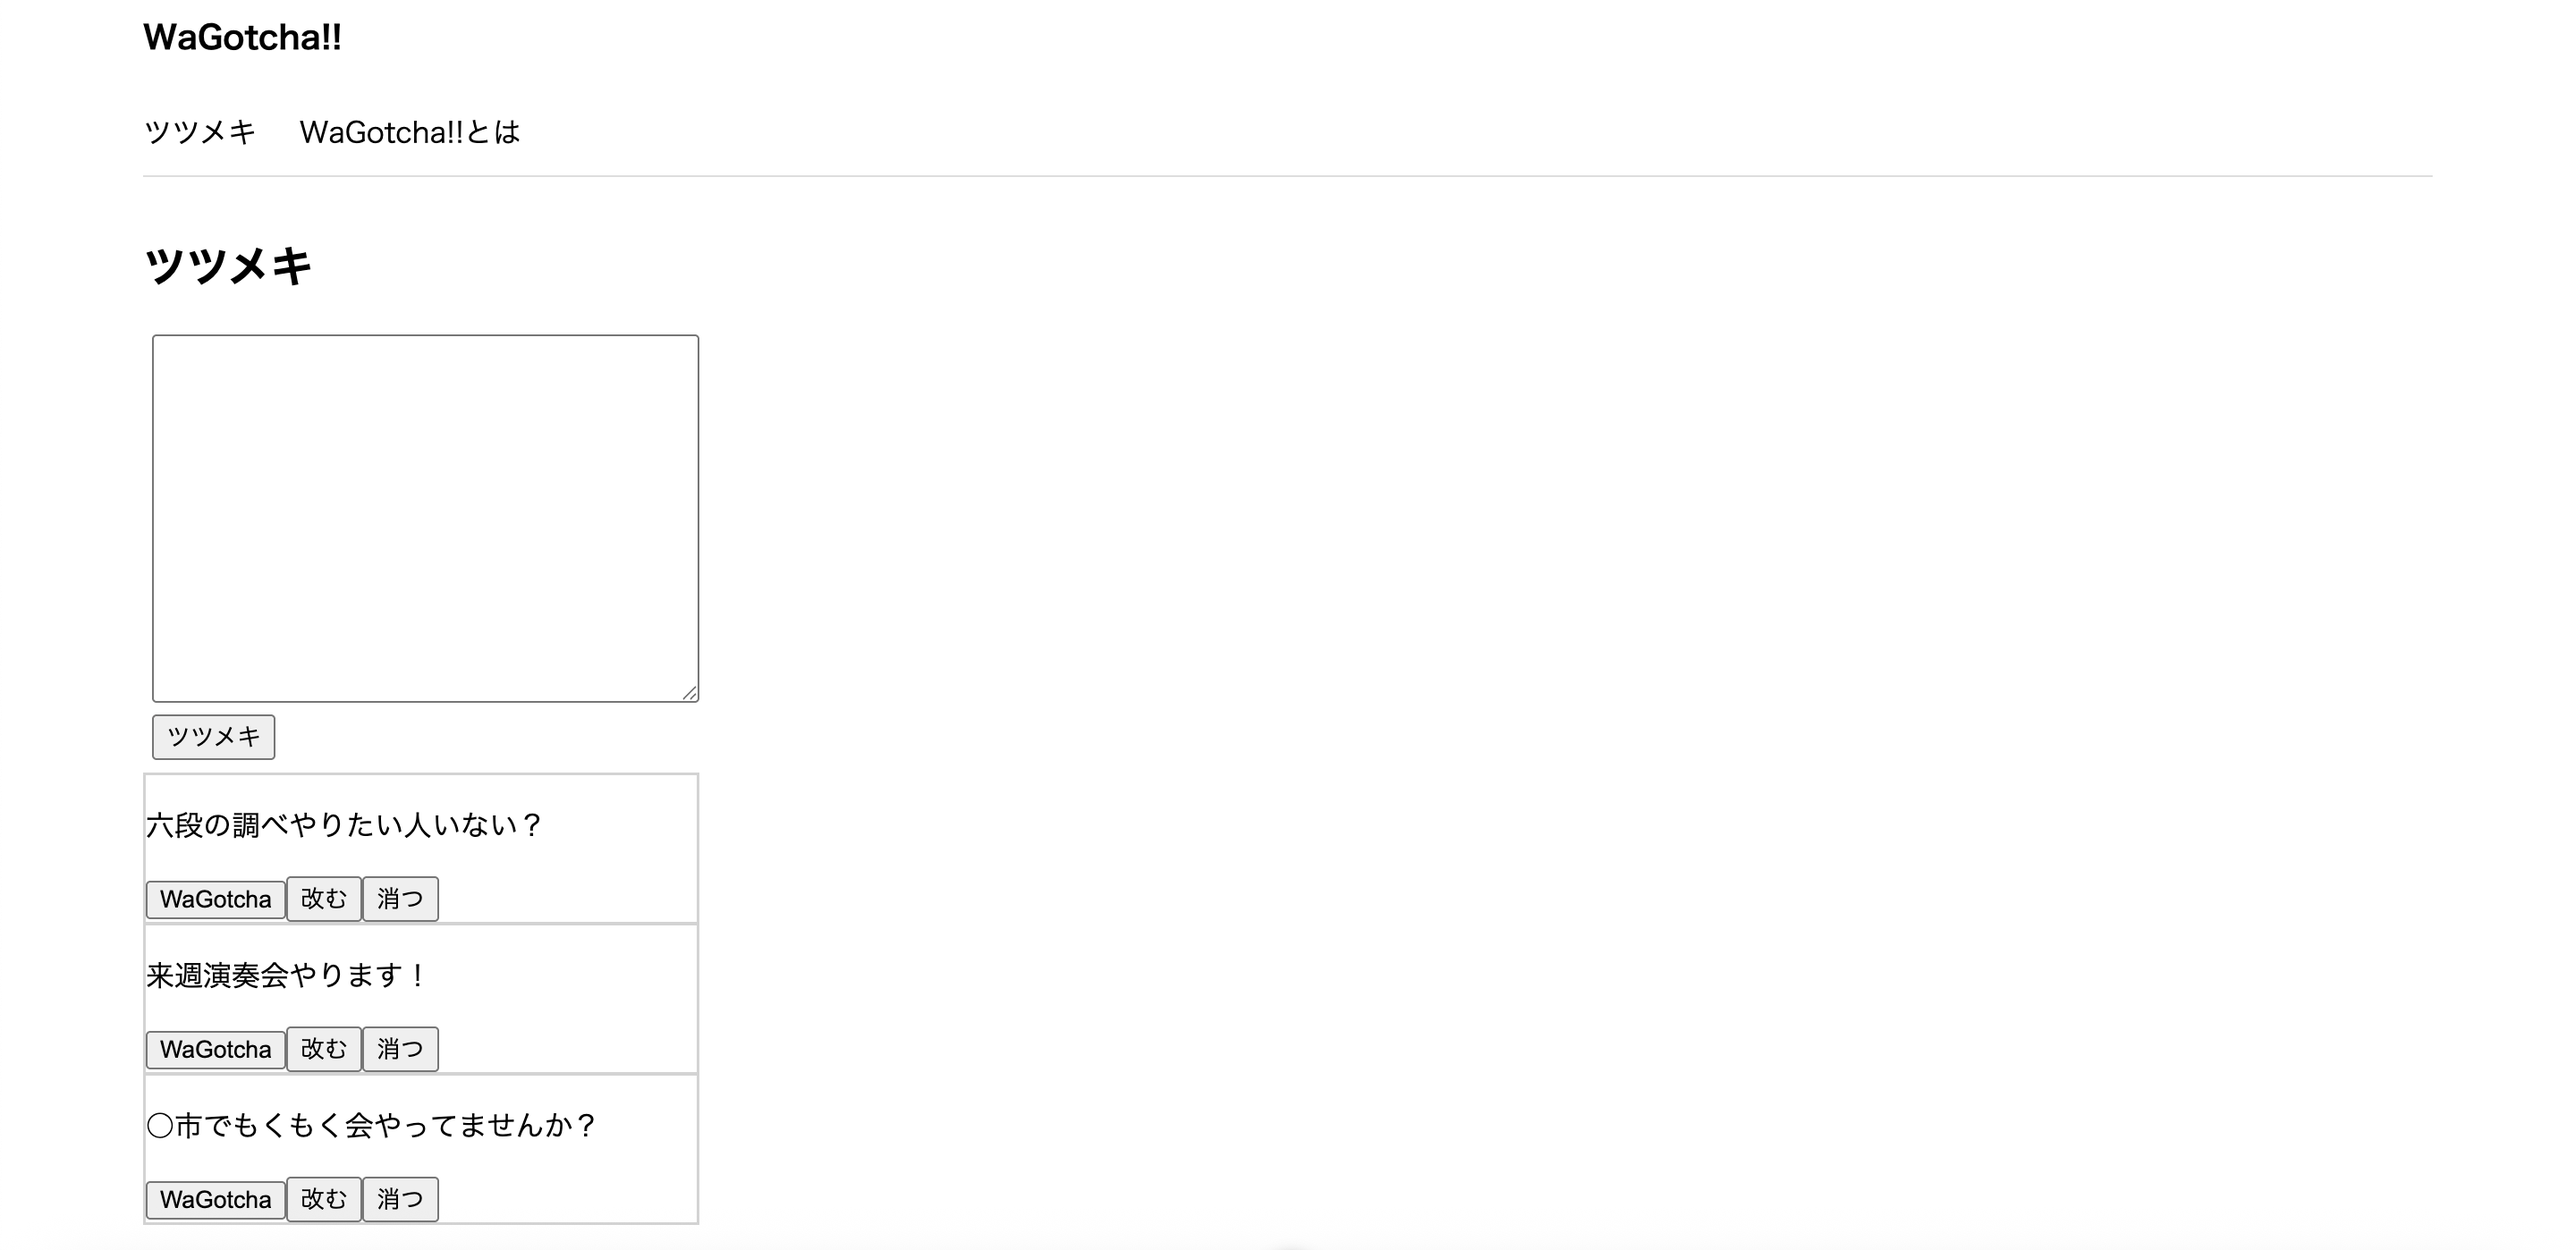
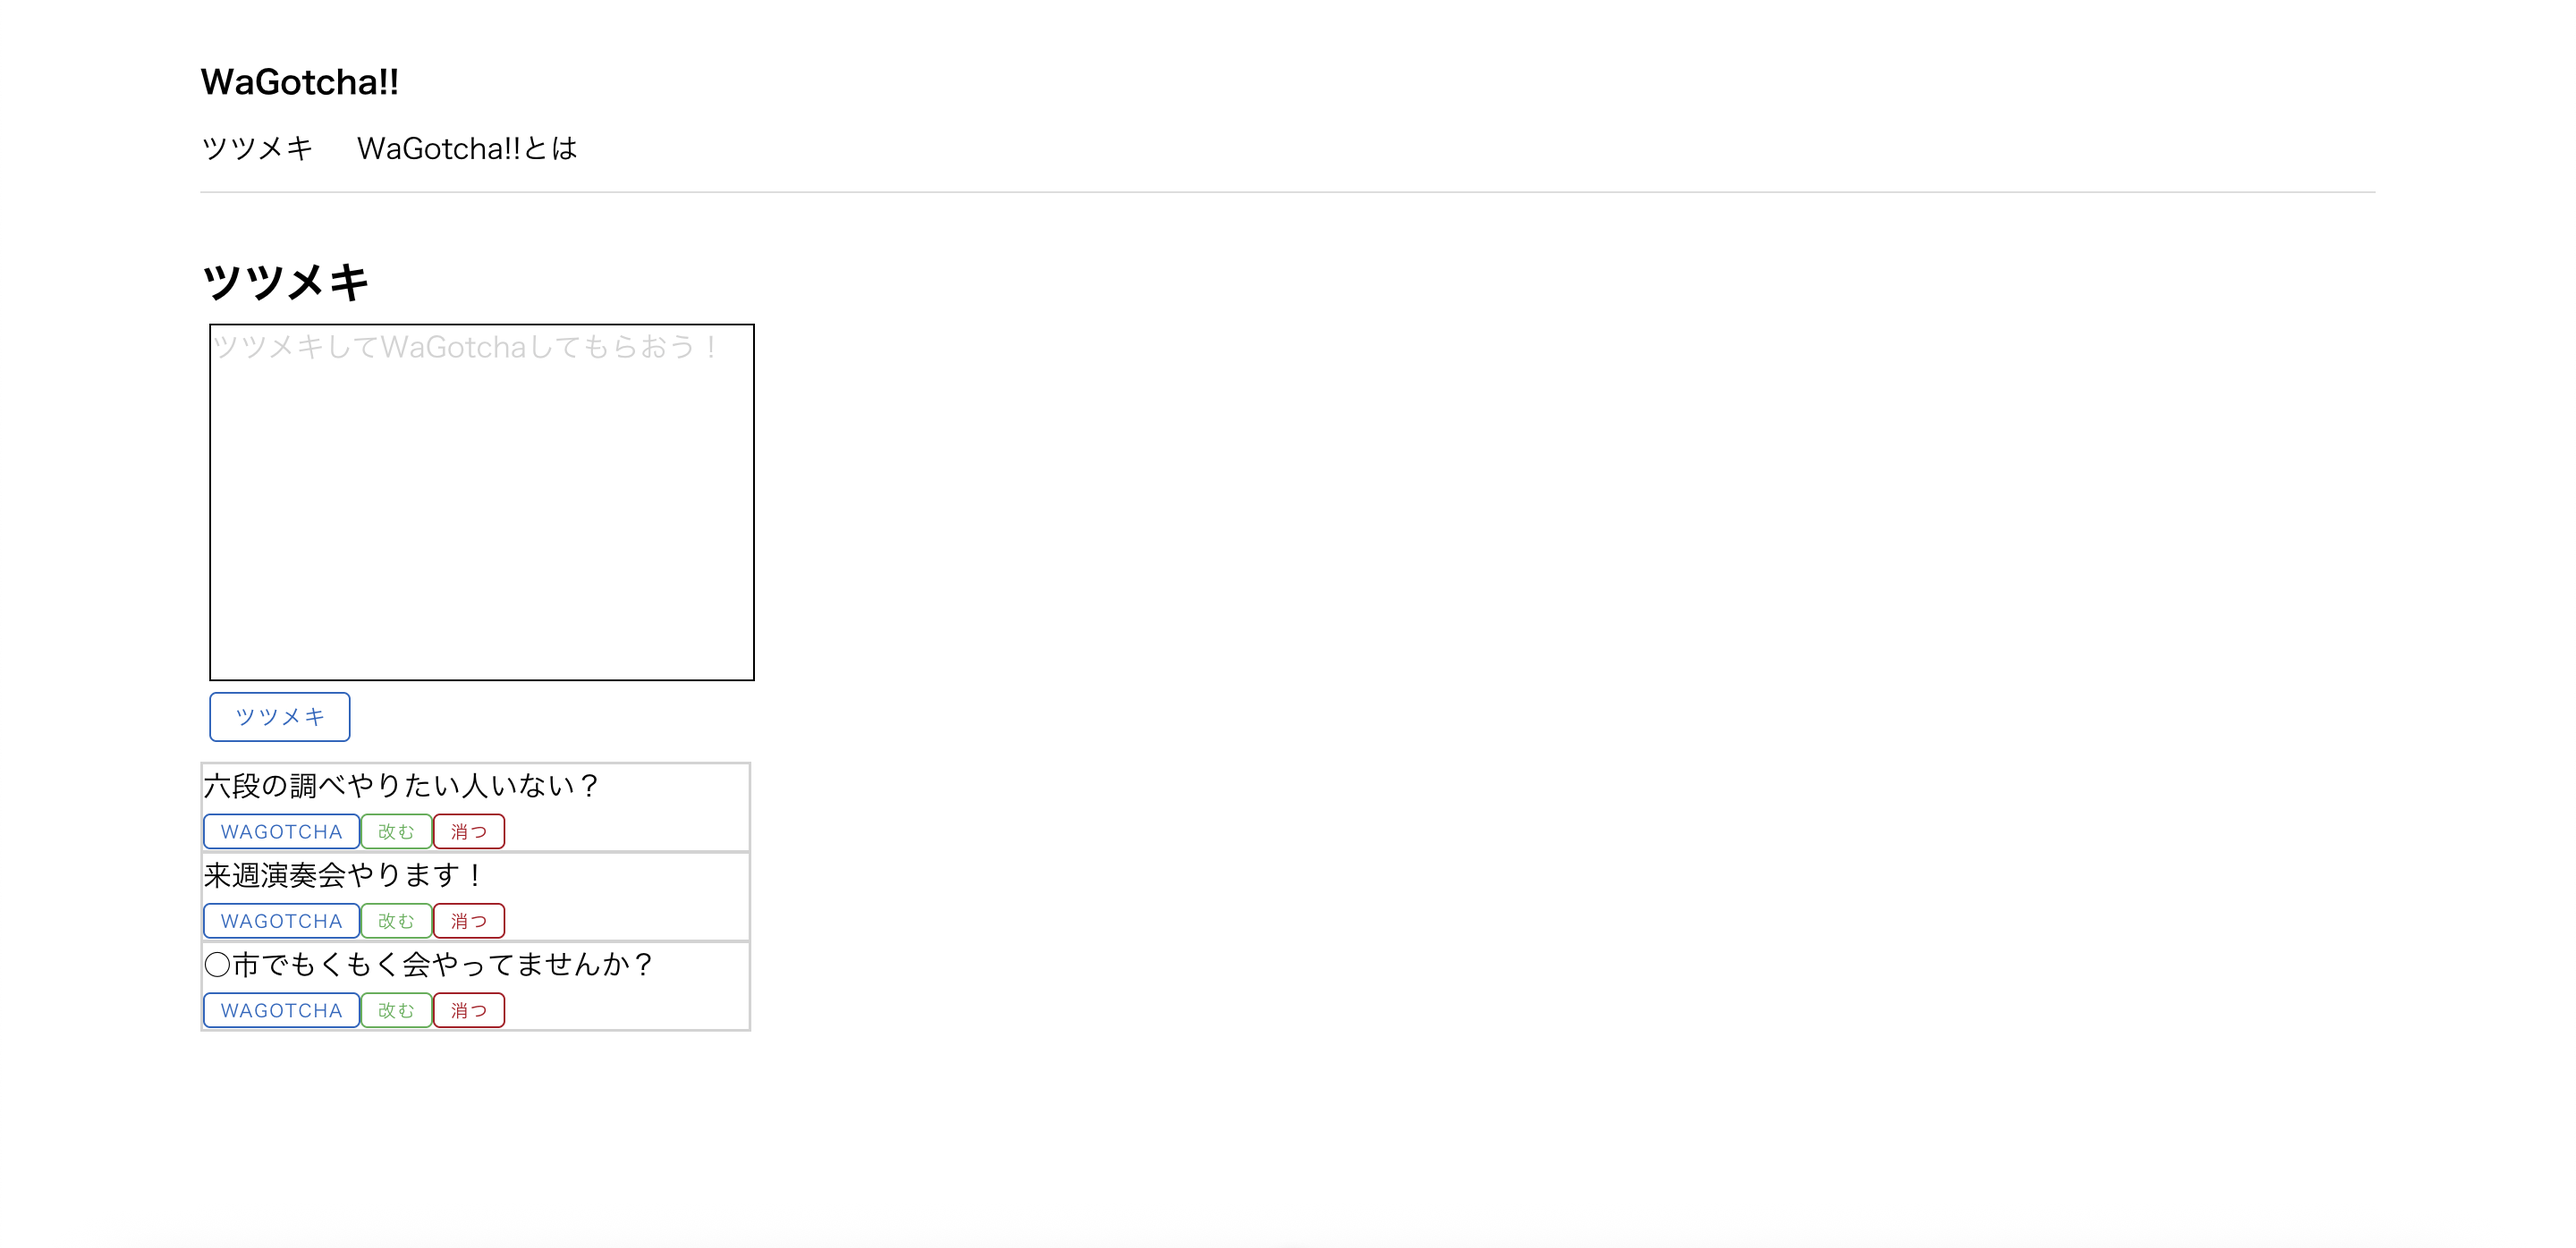
Update:v-btn導入によるフロントエンドの更新

diff --git a/front/src/components/Tsutsumeki.vue b/front/src/components/Tsutsumeki.vue
@@ -49,22 +49,21 @@ function clickWaGotcha(index){
     <div class="Tsutsumeki-create">
         <textarea v-model="inputText" class="Tsutsumeki-text" maxlength="140" placeholder="ツツメキしてWaGotchaしてもらおう！">
         </textarea>
-        <button @click="addTsutsumeki">ツツメキ</button>
+        <v-btn size="small" variant="outlined" color="primary" @click="addTsutsumeki">ツツメキ</v-btn>
     </div>
     <div class="Tsutsumeki-posted" v-for="(tsutsumeki, index) in tsutsumekis">
         <div v-if="editingIndex !== index">
             <p class="Tsutsumeki-words">{{ tsutsumeki.tsutsumeki }}</p>
-            <button class="WaGotcha" @click="clickWaGotcha(index)"
+            <v-btn size="x-small" variant="outlined" color="primary" class="WaGotcha" @click="clickWaGotcha(index)"
             :class= "{active: clickedIndices.has(tsutsumeki.id)}"
-            >WaGotcha</button>
-            <button @click="editTsutsumeki(index)">改む</button>
-            <button @click="deleteTsutsumeki(index)">消つ</button>
+            >WaGotcha</v-btn>
+            <v-btn size="x-small" variant="outlined" color="success" @click="editTsutsumeki(index)">改む</v-btn>
+            <v-btn size="x-small" variant="outlined" color="error" @click="deleteTsutsumeki(index)">消つ</v-btn>
         </div>
         <div v-else>
             <textarea v-model="tsutsumekis[index].tsutsumeki" class="Tsutsumeki-text" maxlength="140"></textarea>
-            <button class="WaGotcha" @click="quitEdittingTsutsumeki(index)">WaGotcha</button>
-            <button @click="completeEdittingTsutsumeki(index)">記す</button>
-            <button @click="quitEdittingTsutsumeki(index)">辞む</button>
+            <v-btn size="x-small" variant="outlined" color="primary" @click="completeEdittingTsutsumeki(index)">記す</v-btn>
+            <v-btn size="x-small" variant="outlined" color="error" @click="quitEdittingTsutsumeki(index)">辞む</v-btn>
         </div>
     </div>
 </template>

diff --git a/front/src/main.js b/front/src/main.js
@@ -4,6 +4,17 @@ import { createApp } from 'vue'
 import App from './App.vue'
 import router from './router'
 
+import 'vuetify/styles'
+import { createVuetify } from 'vuetify'
+import * as components from 'vuetify/components'
+import * as directives from 'vuetify/directives'
+
+const vuetify = createVuetify({
+    components,
+    directives,
+})
+
 const app = createApp(App)
 app.use(router)
+app.use(vuetify)
 app.mount('#app')

diff --git a/front/src/assets/main.css b/front/src/assets/main.css
@@ -39,8 +39,15 @@ nav a:hover {
 }
 
 .Tsutsumeki-text{
-  width: 300px;
+  width: 305px;
   height: 200px;
+  color: #000000;
+  border: 1px solid#000000;
+  resize: none;
+}
+
+.Tsutsumeki-text::placeholder{
+  color:#D3D3D3;
 }
 
 .Tsutsumeki-posted{
@@ -48,6 +55,7 @@ nav a:hover {
   border:solid;
   color: #d3d3d3;
   margin: 0 0 -1px;
+  resize: none;
 }
 
 .Tsutsumeki-words{

diff --git a/docs/screen-design/README.md b/docs/screen-design/README.md
@@ -14,6 +14,12 @@ WaGotcha!!の根幹となる文章のCRUD画面となります。
 
 WaGotchaボタンはXでいういいね機能、改むは既に投稿したツツメキの編集、消つは削除機能となります。
 
+![ツツメキ編集](./img/Tsutsumeki-edit.png)
+
+改むボタンを押下すると上記画像のような表示となります。
+
+ここで記すボタンを押下するとツツメキの更新が行われ、辞むボタンを押下すると更新されず元の表示に戻ります。
+
 ## WaGotcha!!とは
 ![WaGotcha!!とは](./img/About.png)
 WaGotcha!!の趣旨を説明した画面となります。
